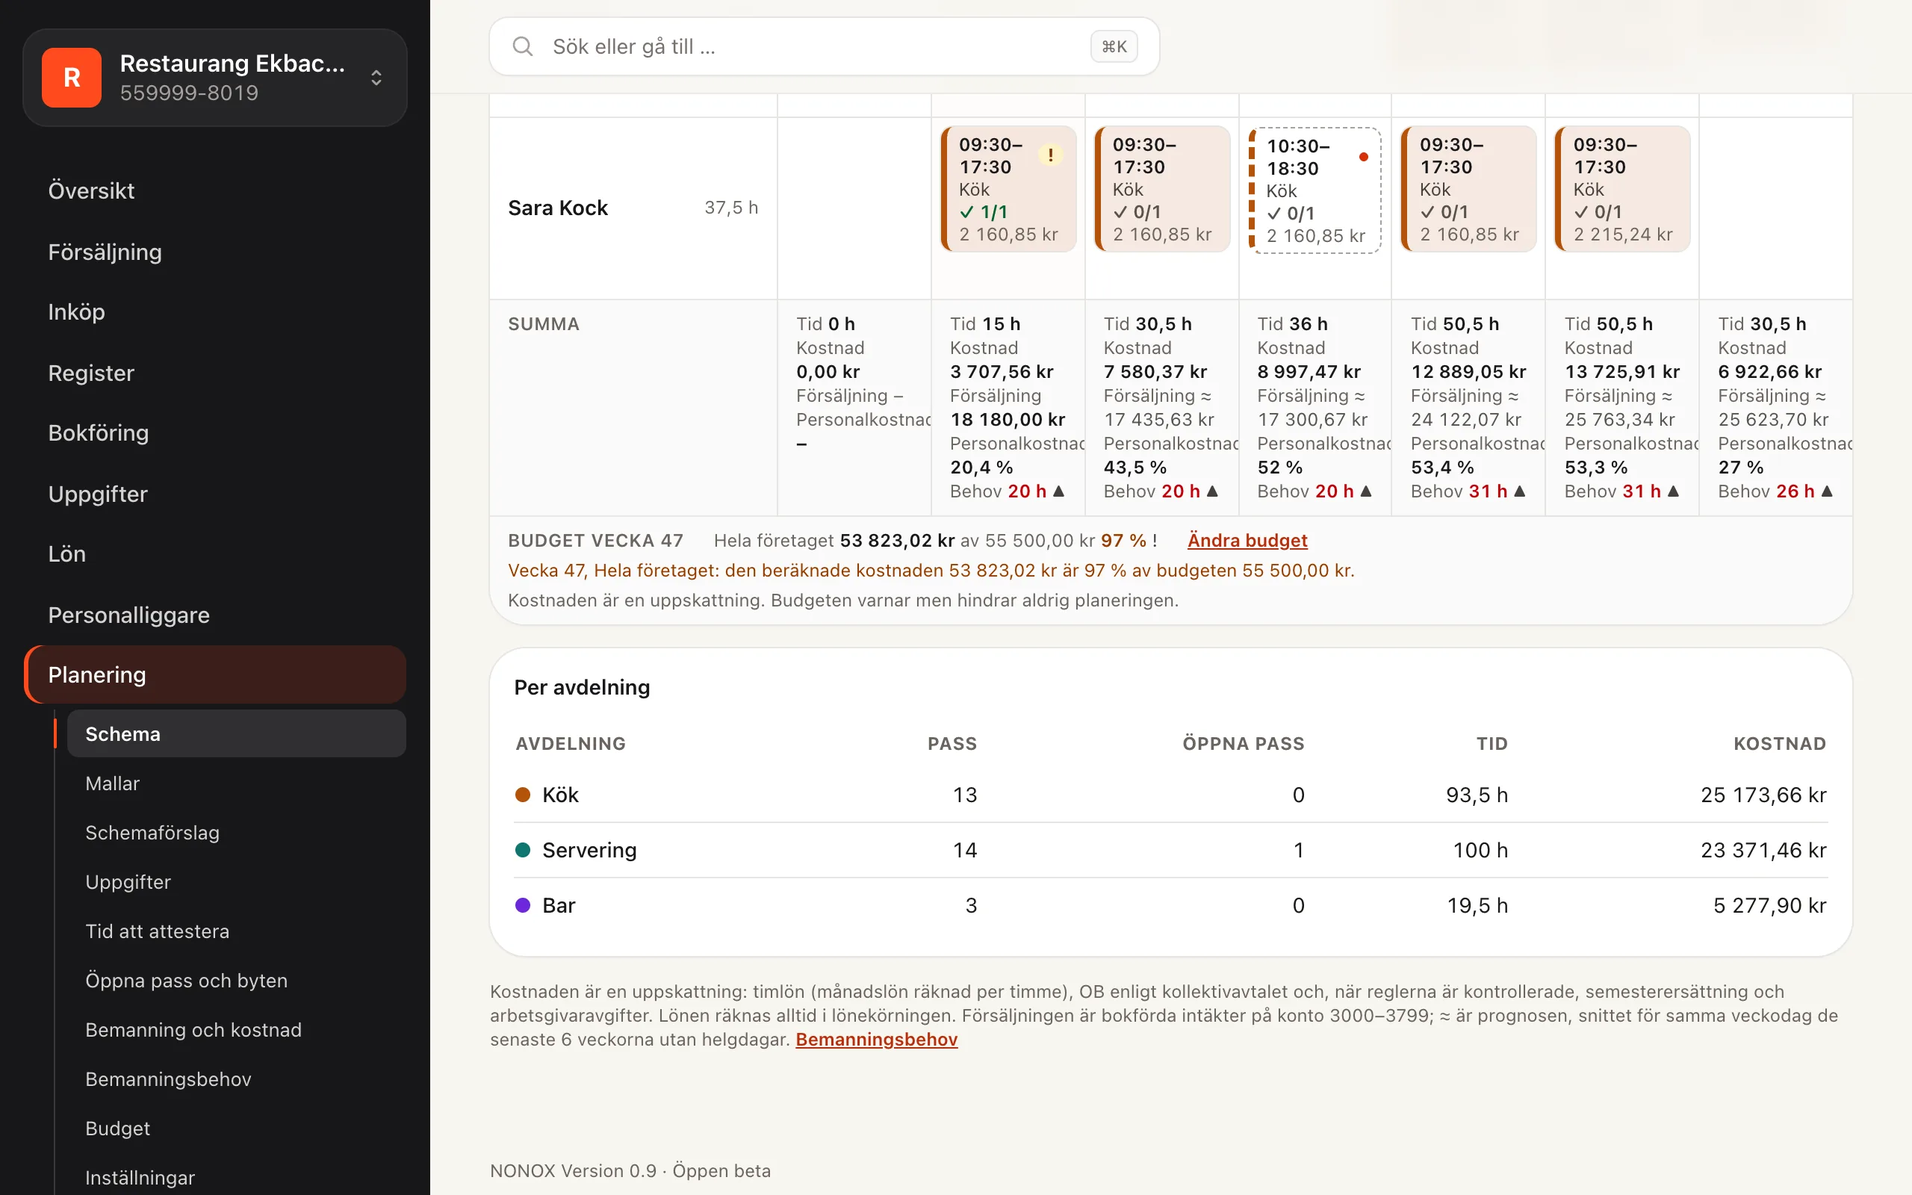
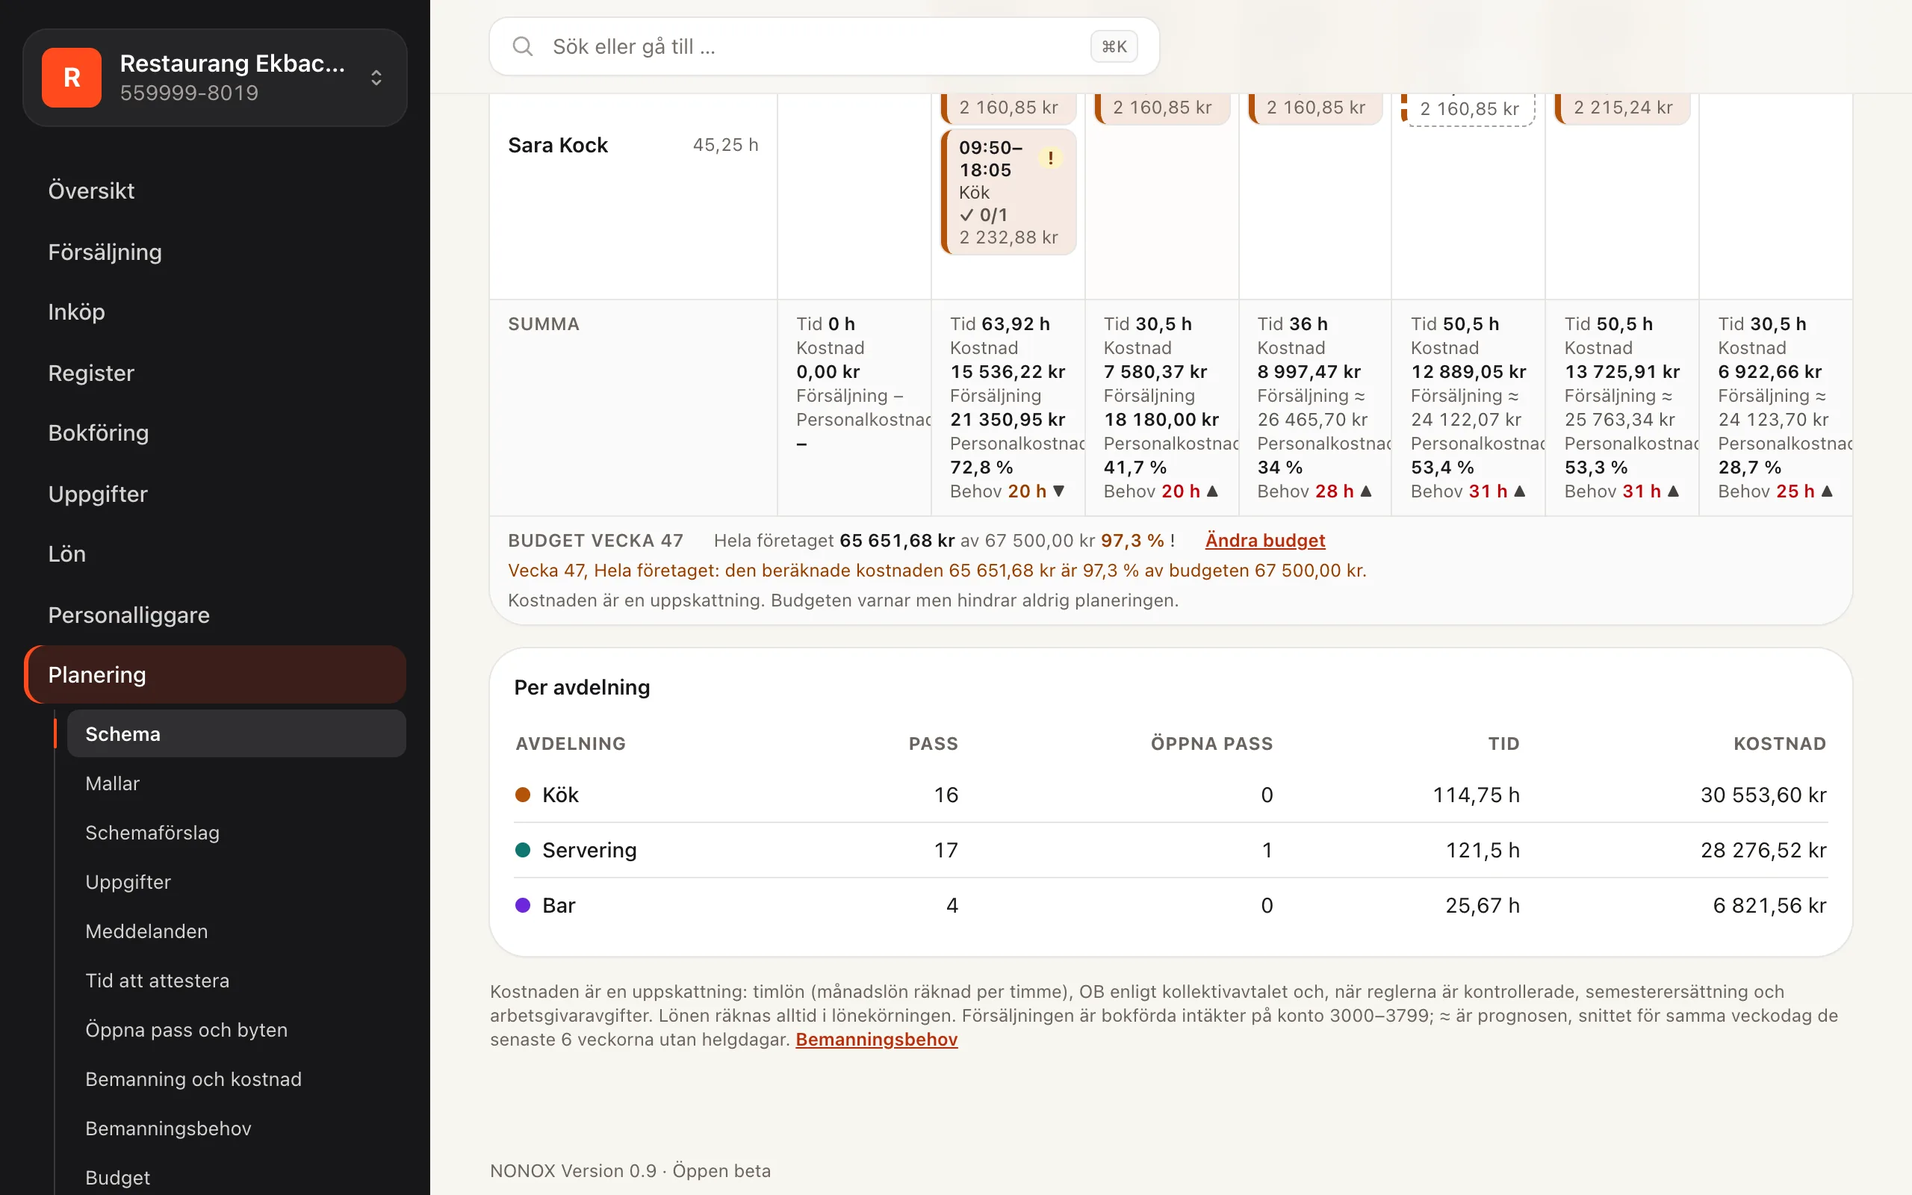
docs(planning): launch of scheduling best in class on the landing page, comparison and README (ADR-037 P10)
The verified scheduling row in the comparison carries the new feature keys;
three landing cards with real screenshots; industry pages for restaurants,
cafés and shops. Proposals are described as checked against the company's own
working-time settings. ADR-037's amendment is accepted.

diff --git a/app/Support/Landing/LandingPage.php b/app/Support/Landing/LandingPage.php
@@ -46,6 +46,7 @@ final class LandingPage
         ['label' => 'Deklaration för aktiebolag och handelsbolag', 'keys' => ['year_end', 'ink4_return']],
         ['label' => 'Lön med fil till arbetsgivardeklarationen', 'keys' => ['payroll', 'agi']],
         ['label' => 'Schema och personalliggare', 'keys' => ['planning', 'staff_ledger']],
+        ['label' => 'Bemanningsbehov, budget och schemaförslag', 'keys' => ['planning_demand', 'planning_budget', 'planning_proposals']],
         ['label' => 'Lager med mobilskanning', 'keys' => ['inventory', 'inventory_scanner']],
         ['label' => 'Tillverkning med stycklistor och tillverkningsorder', 'keys' => ['manufacturing_bom', 'manufacturing_orders']],
         ['label' => 'CRM med säljtratt och nyckeltal ur bokföringen', 'keys' => ['crm', 'crm_pipeline', 'crm_key_figures']],
@@ -230,7 +231,10 @@ final class LandingPage
             ['t' => 'Byrå och kund', 'img' => 'byra/uppgifter-mellan-byra-och-kund', 'man' => 'byra/uppgifter-mellan-byra-och-kund', 'key' => 'tasks', 'b' => 'Uppgifter som delegeras mellan byrån och kunden, månadsstängning per klient och alla klienter på en sida.', 'd' => 'M9 11l3 3 8-8M20 12v7a2 2 0 0 1-2 2H6a2 2 0 0 1-2-2V5a2 2 0 0 1 2-2h9'],
             ['t' => 'Arkiv och export', 'img' => 'bokslut/arkivpaket', 'man' => 'bokslut/arkivpaket', 'key' => 'archive', 'b' => 'Arkivpaket per räkenskapsår med allt som Bokföringslagen kräver. Inget är inlåst.', 'd' => 'M4 7h16v13H4zM2 4h20v3H2zM10 11h4'],
             ['t' => 'Körjournal', 'img' => 'personal/korjournal', 'man' => 'personal/korjournal', 'key' => 'travel_expenses', 'mod' => true, 'new' => true, 'b' => 'Resor skrivs in för hand, utan GPS, och en månad skickas in som milersättning som godkänns och betalas med lönen. För egen bil och för förmånsbil.', 'd' => 'M5 16l1.5-5h11L19 16M5 16v3h2v-2h10v2h2v-3M5 16h14M8 13h.01M16 13h.01'],
-            ['t' => 'Planering', 'img' => 'planering/schema', 'man' => 'planering/schemat', 'key' => 'planning', 'mod' => true, 'new' => true, 'b' => 'Schema med lönekostnad och OB enligt avtalet medan du planerar. Planen möter personalliggaren, avvikelserna attesteras och tiden går rakt in i lönen.', 'd' => 'M4 5h16v15H4zM4 9h16M8 3v4M16 3v4M8 13h3M13 13h3M8 16h3'],
+            ['t' => 'Planering', 'img' => 'planering/schema-franvaro', 'man' => 'planering/schemat', 'key' => 'planning', 'mod' => true, 'new' => true, 'b' => 'Schema med uppskattad lönekostnad och OB enligt avtalet medan du planerar. Godkänd frånvaro syns som Frånvarande, passen kan ha uppgifter som personalen bockar av, och meddelanden till personalen visar vem som har läst. Planen möter personalliggaren, avvikelserna attesteras och tiden går rakt in i lönen.', 'd' => 'M4 5h16v15H4zM4 9h16M8 3v4M16 3v4M8 13h3M13 13h3M8 16h3'],
+            ['t' => 'Bemanningsbehov och budget', 'img' => 'planering/schema-budget', 'man' => 'planering/bemanningsbehov', 'key' => 'planning_demand', 'mod' => true, 'new' => true, 'b' => 'En prognos för försäljningen ur bokföringen, och per timme ur kassans kvitton eller din egen timprofil, blir ett uppskattat behov av personal som syns i schemat timme för timme. En budget för personalkostnaden per vecka varnar när kostnaden närmar sig den, men stoppar aldrig planeringen.', 'd' => 'M3 17l5-5 4 4 8-8M3 21h18M15 8h5v5'],
+            ['t' => 'Schemaförslag', 'img' => 'planering/schemaforslag-nya-pass', 'man' => 'planering/schemaforslag', 'key' => 'planning_proposals', 'mod' => true, 'new' => true, 'b' => 'NONOX föreslår vem som kan ta de öppna passen och vilka pass som saknas mot behovet, inom veckans budget och utan att bryta mot vilotiderna och arbetstidsreglerna i företagets inställningar, frånvaro eller kompetens. Varje förslag visar varför, lönen påverkar aldrig valet, och du bestämmer: det du godkänner blir utkast i schemat.', 'd' => 'M9 6h11M9 12h11M9 18h11M4 6l1 1 2-2M4 12l1 1 2-2M4 18l1 1 2-2'],
+            ['t' => 'Schema över företag', 'img' => 'planering/schema-over-foretag', 'man' => 'planering/schema-over-foretag', 'key' => 'planning_chain', 'mod' => true, 'new' => true, 'b' => 'Veckan i alla dina företag på en sida, med pass, planerad tid och uppskattad kostnad per företag och en varning när samma person har krockande pass i två av dem. Sidan går bara att läsa: varje företag är en egen arbetsgivare, så ändringar görs i företaget.', 'd' => 'M3 21V9l6-3v15M9 21V3h8v18M17 11h4v10M3 21h18'],
             ['t' => 'Personalliggare', 'img' => 'personalliggare/oversikten-och-avvikelser', 'man' => 'personalliggare/oversikten-och-avvikelser', 'key' => 'staff_ledger', 'mod' => true, 'b' => 'Elektronisk personalliggare med incheckning via PIN eller QR-kod på en surfplatta, även utan internet.', 'd' => 'M9 4h6M8 2v4M16 2v4M4 6h16v15H4zM8 11h8M8 15h5'],
             ['t' => 'Inkorg', 'img' => 'leverantorer/inkorgen', 'man' => 'leverantorer/inkorgen', 'key' => 'inbox', 'mod' => true, 'b' => 'En egen e-postadress för fakturor, kvitton och kassarapporter. Bara post från avsändare du godkänt tolkas, resten väntar i karantän.', 'd' => 'M3 13l3-8h12l3 8v6H3zM3 13h5l1 2h6l1-2h5M12 8v3'],
             ['t' => 'Aktiebok och styrelserum', 'img' => 'aktiebok/oversikt', 'man' => 'aktiebok/oversikt', 'key' => 'share_register', 'mod' => true, 'b' => 'Aktiebok med ägare och händelser, kallelser till stämma och styrelsemöte, och protokoll som skrivs och undertecknas i NONOX. Datum för kallelser visas som råd.', 'd' => 'M5 4h11l3 3v13H5zM9 11h6M9 15h6'],

diff --git a/app/Support/Landing/Features.php b/app/Support/Landing/Features.php
@@ -65,9 +65,14 @@ final class Features
         'planning_payroll' => ['name' => 'Schema och personalliggare blir löneunderlag', 'status' => self::LIVE, 'readme' => 'Schema och personalliggare blir löneunderlag', 'module' => 'Planering'],
         'planning_staffing' => ['name' => 'Lönekostnad i procent av försäljningen', 'status' => self::LIVE, 'readme' => 'lönekostnad i procent av försäljningen ur bokföringen', 'module' => 'Planering'],
         'planning_self_service' => ['name' => 'Mitt schema, öppna pass och byten på Min sida', 'status' => self::LIVE, 'readme' => 'Min sida visar mitt schema, lediga pass att ta, byten och kalenderlänk', 'module' => 'Planering'],
-        'planning_demand' => ['name' => 'Bemanningsbehov från försäljningen', 'status' => self::LIVE, 'readme' => 'Bemanningsbehov: prognos för försäljningen', 'module' => 'Planering'],
+        'planning_demand' => ['name' => 'Bemanningsbehov från försäljningen', 'status' => self::LIVE, 'readme' => 'Bemanningsbehov: en uppskattad prognos för försäljningen', 'module' => 'Planering'],
         'planning_budget' => ['name' => 'Budget för personalkostnad per vecka', 'status' => self::LIVE, 'readme' => 'Budget för personalkostnad: per vecka', 'module' => 'Planering'],
         'planning_proposals' => ['name' => 'Schemaförslag för öppna pass och bemanningsbehovet', 'status' => self::LIVE, 'readme' => 'Schemaförslag: NONOX föreslår vem som ska ta de öppna passen', 'module' => 'Planering'],
+        'planning_absence' => ['name' => 'Godkänd frånvaro syns i schemat', 'status' => self::LIVE, 'readme' => 'Frånvaro i schemat: godkänd frånvaro visas som Frånvarande', 'module' => 'Planering'],
+        'planning_tasks' => ['name' => 'Uppgifter på passen som personalen bockar av', 'status' => self::LIVE, 'readme' => 'Uppgifter på passen: återkommande uppgifter', 'module' => 'Planering'],
+        'planning_messages' => ['name' => 'Meddelanden till personalen med läst och bekräftat', 'status' => self::LIVE, 'readme' => 'Meddelanden till personalen: skriv till personen på ett pass', 'module' => 'Planering'],
+        'planning_cost_centres' => ['name' => 'Pass på kostnadsställen, ända in i lönen', 'status' => self::LIVE, 'readme' => 'Kostnadsställen på passen: avdelningen och passet kan ha ett kostnadsställe', 'module' => 'Planering'],
+        'planning_chain' => ['name' => 'Schema över flera företag', 'status' => self::LIVE, 'readme' => 'Schema över företag: veckan för alla företag', 'module' => 'Planering'],
         'inventory' => ['name' => 'Lager med lagerställen och EAN', 'status' => self::LIVE, 'readme' => 'Lagerställen i lager, zoner, hyllor och fack', 'module' => 'Lager'],
         'inventory_flow' => ['name' => 'Inleveranser, plocklistor och inventering', 'status' => self::LIVE, 'readme' => 'Inventering per hylla eller hela lagret', 'module' => 'Lager'],
         'inventory_purchase_orders' => ['name' => 'Inköpsorder och inköpsförslag', 'status' => self::LIVE, 'readme' => 'Inköpsorder till leverantörer', 'module' => 'Lager'],

diff --git a/README.md b/README.md
@@ -127,11 +127,14 @@ Grupperat som i menyn i appen. Moduler slår varje företag på och av under Fö
 - Schemat publiceras med besked i appen och via e-post. Min sida visar mitt schema, lediga pass att ta, byten och kalenderlänk.
 - Schema och personalliggare blir löneunderlag: planen jämförs med in- och utcheckningarna, chefen attesterar avvikelserna och tiden blir tidrapporter med timlön, OB per OB-art enligt avtalet och övertid eller komptid, direkt i lönekörningen. Utan personalliggare kan chefen skriva in arbetad tid, även en dag utan planerat pass.
 - Bemanning och kostnad: planerad och faktisk tid och lönekostnad i procent av försäljningen ur bokföringen, dag för dag.
+- Frånvaro i schemat: godkänd frånvaro visas som Frånvarande, aldrig orsaken, med en varning när ett pass läggs på en frånvarodag och en sak att göra när publicerade pass hamnar hos någon som är borta.
+- Kostnadsställen på passen: avdelningen och passet kan ha ett kostnadsställe som följer med till tidrapporterna och lönens verifikation, med arbetsgivaravgifterna fördelade efter avgiftsunderlaget på varje kostnadsställe.
 - Uppgifter på passen: återkommande uppgifter efter avdelning, kompetens, veckodag och klockslag läggs på passen när de sparas och publiceras. Personalen bockar av dem på Min sida och planeraren ser det på schemat, utan namn och utan jämförelse mellan personer. Ett stöd i arbetet, inte egenkontroll.
 - Meddelanden till personalen: skriv till personen på ett pass, alla som jobbar en dag, en vecka eller på en avdelning, eller alla anställda, och be om bekräftelse. Personalen läser på Min sida och får en notis och ett mejl utan texten; planeraren ser per meddelande vem som har läst. Texten sparas krypterad och tas bort efter tolv månader.
-- Bemanningsbehov: prognos för försäljningen (snittet för samma veckodag de senaste veckorna, helgdagar från samma helgdag förra året, egna ändringar med anledning) och bemanningsmål per avdelning, med försäljning per bemannad timme och minsta bemanning. Fördelningen per timme kommer från kassans kvitton eller en egen timprofil. Schemats dagvy visar behovet mot passen timme för timme, med varning för under- och överbemanning.
+- Bemanningsbehov: en uppskattad prognos för försäljningen (snittet för samma veckodag de senaste veckorna, helgdagar från samma helgdag förra året, egna ändringar med anledning) och bemanningsmål per avdelning, med försäljning per bemannad timme och minsta bemanning. Fördelningen per timme kommer från kassans kvitton eller en egen timprofil. Schemats dagvy visar behovet mot passen timme för timme, med varning för under- och överbemanning.
 - Budget för personalkostnad: per vecka för hela företaget eller en avdelning, som ett belopp eller en andel av prognosen. Schemat visar den beräknade kostnaden mot budgeten och varnar från 95 % och vid 100 %, utan att stoppa planeringen. Schema över företag visar varje företags budget.
-- Schemaförslag: NONOX föreslår vem som ska ta de öppna passen, utan att bryta mot vilotider, frånvaro, kompetens eller vad personalen sagt att de inte kan, och med timmar, kvällar och helger jämnt fördelade. Lönen påverkar aldrig valet. Med bemanningsbehovet påslaget föreslås också de nya pass som behövs enligt prognosen, i företagets passlängder och inom veckans budget. Varje förslag visar varför, och det du godkänner blir utkast i schemat.
+- Schemaförslag: NONOX föreslår vem som ska ta de öppna passen, utan att bryta mot vilotiderna och arbetstidsreglerna i företagets inställningar, frånvaro, kompetens eller vad personalen sagt att de inte kan, och med timmar, kvällar och helger jämnt fördelade. Lönen påverkar aldrig valet. Med bemanningsbehovet påslaget föreslås också de nya pass som behövs enligt prognosen, i företagets passlängder och inom veckans budget. Varje förslag visar varför, och det du godkänner blir utkast i schemat.
+- Schema över företag: veckan för alla företag där du får se schemat på en sida, med pass, planerad tid och uppskattad kostnad per företag, och varning när samma person har krockande pass i två av företagen. Sidan går bara att läsa; ändringar görs i varje företag.
 
 ### Lager (modul) – ny
 - Lagerförda artiklar i samma artikelregister som fakturorna, med fliken Avancerad: EAN/GTIN med kontroll av kontrollsiffran, SKU, skannerkod, inköpspris, leverantör, egenskaper, mått och vinstmarginalbeskattning för begagnat.

diff --git a/docs/manual/sv/planering/oversikt.md b/docs/manual/sv/planering/oversikt.md
@@ -1,14 +1,14 @@
 ---
-beskrivning: NONOX Planering – schemat med lönekostnaden synlig, mallar, öppna pass och byten, attest av tid mot personalliggaren och OB till lönen.
+beskrivning: NONOX Planering – schemat med lönekostnaden synlig, bemanningsbehov, budget och schemaförslag, uppgifter och meddelanden, frånvaro, attest av tid mot personalliggaren och OB till lönen.
 ordning: 0
 roller: [owner, admin, payroll_admin, scheduler]
 modul: planning
-sokord: [schema, schemaläggning, personalschema, bemanning, pass, arbetspass, skiftschema, personalplanering]
+sokord: [schema, schemaläggning, personalschema, bemanning, pass, arbetspass, skiftschema, personalplanering, bemanningsbehov, schemaförslag, personalbudget]
 ---
 
 # Planering
 
-Med Planering lägger du personalens schema vecka för vecka och ser vad passen kostar medan du planerar. När veckan är klar publicerar du den, och personalen ser sina pass på Min sida i mobilen. Efteråt jämför NONOX schemat med den tid som faktiskt arbetades, du attesterar dagarna, och den godkända tiden går direkt till lönekörningen, med OB uppdelad enligt kollektivavtalet.
+Med Planering lägger du personalens schema vecka för vecka och ser vad passen beräknas kosta medan du planerar. NONOX kan uppskatta hur många som behöver jobba utifrån försäljningen, varna när veckans kostnad närmar sig budgeten och föreslå vem som kan ta de öppna passen. Förslagen och varningarna är ett stöd: du bestämmer alltid själv vad som läggs i schemat. När veckan är klar publicerar du den, och personalen ser sina pass på Min sida i mobilen. Efteråt jämför NONOX schemat med den tid som faktiskt arbetades, du attesterar dagarna, och den godkända tiden går direkt till lönekörningen, med OB uppdelad enligt kollektivavtalet.
 
 Planering är en modul. Den bygger på lönemodulen, för det är de anställda i lönen som planeras. Har företaget även personalliggaren och Avtal använder Planering dem: personalliggaren för den faktiska tiden och avtalet för OB. Planering skriver aldrig i personalliggaren, den läser bara.
 
@@ -24,7 +24,8 @@ Avsnittet är för dig som planerar eller attesterar tid: ägaren, en administra
 ## Lägg schemat
 
 - [Schemat](/manual/planering/schemat) – veckan och dagen, skapa, flytta och ändra pass, filter och kortkommandon.
-- [Mallar och kopiera veckor](/manual/planering/mallar-och-kopiera-veckor) – veckor som återkommer, och rullande scheman.
+- [Mallar och kopiera veckor](/manual/planering/mallar-och-kopiera-veckor) – veckor som återkommer.
+- [Rullande schema](/manual/planering/rullande-schema) – ett schema som går runt på flera veckor, och arbetstiden över beräkningsperioden.
 - [Schemaförslag](/manual/planering/schemaforslag) – låt NONOX föreslå vem som ska ta de öppna passen, med skälen.
 - [Uppgifter på passen](/manual/planering/uppgifter-pa-pass) – återkommande uppgifter som personalen bockar av på Min sida.
 - [Meddelanden till personalen](/manual/planering/meddelanden) – skriv till personalen på ett pass, en dag eller en vecka och se vem som har läst.
@@ -43,9 +44,13 @@ Avsnittet är för dig som planerar eller attesterar tid: ägaren, en administra
 - [Tid att attestera](/manual/planering/tid-att-attestera) – plan mot faktisk tid, avvikelser, attest och skicka till lönen.
 - [OB och övertid i lönen](/manual/planering/ob-och-overtid-i-lonen) – hur attesterad tid blir tidrapporter och rader i lönen.
 - [Kostnadsställen på pass](/manual/planering/kostnadsstallen) – lönen för passen och arbetsgivaravgifterna på avdelningens kostnadsställe.
+
+## Bemanning, budget och flera företag
+
 - [Bemanning och kostnad](/manual/planering/bemanning-och-kostnad) – personalkostnad mot försäljningen i bokföringen.
-- [Bemanningsbehov](/manual/planering/bemanningsbehov) – prognos för försäljningen och hur många som behöver jobba, per timme i schemat.
+- [Bemanningsbehov](/manual/planering/bemanningsbehov) – en uppskattad prognos för försäljningen och hur många som behöver jobba, per timme i schemat.
 - [Budget för personalkostnad](/manual/planering/budget) – budget per vecka och avdelning, med varning i schemat när kostnaden närmar sig den.
+- [Schema över företag](/manual/planering/schema-over-foretag) – veckan i flera av dina företag på en sida, med krockar mellan företagen.
 
 ## Läs också
 

diff --git a/docs/adr/ADR-037-nonox-planering.md b/docs/adr/ADR-037-nonox-planering.md
@@ -70,8 +70,27 @@ Detaljhandeln); their hourly pay is unchanged. Enligt AI-utredning
 
 ## Amendment 2026-11-17: best in class
 
-Status: **Accepted (design)**. No feature code ships with this amendment; it
-is built in the packages P1–P10 at the end, in that dependency order.
+Status: **Accepted, implemented** (2026-11-18). The design was accepted on
+2026-11-17 and built in the packages P1–P10 at the end, in that dependency
+order.
+
+**Launched.** All nine feature packages are merged and live; P10 added the
+comparison rows, the landing cards, the industry pages, the changelog entry
+and this status. Feature commits (merge commit in brackets):
+
+- P1 absence in the schedule: `7aadccd8`, `655a8933`, `79d9d90e` (`cbc4a368`); `8dd22069` (directly on integration/batch2, in via `df107529`)
+- P2 cost centres: `2bf2809d` (`edf6b96b`)
+- P3 tasks in shifts: `69dca134`, `0029362e`, `4357d520` (`1ea88e12`)
+- P4 messages to staff: `863fe6a6` (`203e75bf`)
+- P5 staffing demand: `4d1927d9`, `4a534a6b` (`26423491`)
+- P6 staff-cost budget: `92716bbb` (`0026b450`)
+- P7 schedule proposals v1: `69d7e588`, `e0233e41`, `520365d2` (`df107529`)
+- P8 proposals from the demand gap: `aec73ae9` (`cbe2697e`)
+- P9 chain view: `d5931c9b`, `520cbfd9` (`44109a56`)
+
+The `TODO(legal-verify)` items under "Legal items" and in gap 8 stay open
+until a lawyer has reviewed them; the public texts call forecasts and costs
+estimates and say that a person decides.
 
 ### Context
 
